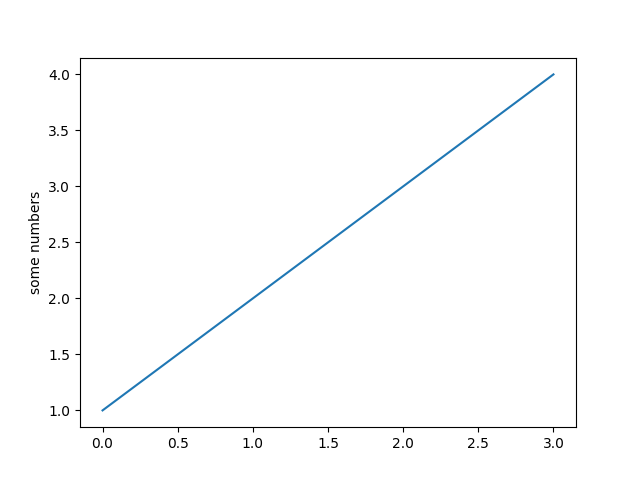
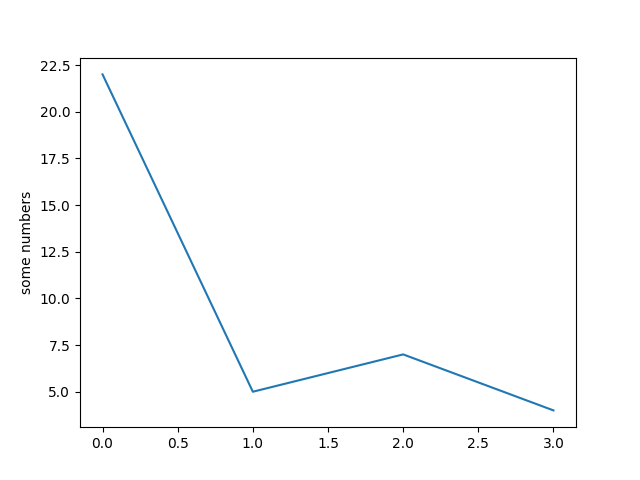
fixed directory structure

diff --git a/views/index.html b/views/index.html
@@ -1,0 +1,18 @@
+<!DOCTYPE html>
+   <head>
+      <title>Raspberry Pi Sensor Data</title>
+      <link rel="stylesheet" href='/style.css'/>
+   </head>
+   <body>
+    <h1>Raspberry Pi Sensor Data</h1>
+   
+    <div>
+        <h3>Temperature</h3>
+        <img src= {{url}}>
+    </div>
+    <div>
+        <h3>Humidity</h3>
+        <img src= {{url}}>
+    </div>
+   </body>
+</html>

diff --git a/partOne/runInterface.py b/partOne/runInterface.py
@@ -7,15 +7,15 @@ matplotlib.use('Agg')
 from matplotlib import pyplot as plt 
 import base64, io
 
-app = Flask(__name__, template_folder='templates')
+app = Flask(__name__, template_folder='../views')
 
 @app.route("/")
 def plotGraph():
 
-    plt.plot([1, 2, 3, 4])
+    plt.plot([22, 5, 7, 4])
     plt.ylabel('some numbers')
-    plt.savefig('static/graph.png')
-    return render_template('index.html', url = 'static/graph.png')
+    plt.savefig('../static/graph.png')
+    return render_template('index.html', url = '../static/graph.png')
 
 host = os.popen('hostname -I').read()
 #port set to a non privileged port above 1024

diff --git a/partOne/partOne.py b/partOne/partOne.py
@@ -17,7 +17,7 @@ def get_cpu_temp():
 
 # Writing to Database
 # Table is datetime , temp , humidity
-dbname='/home/pi/SenseARaspberryPi/database.bieber'
+dbname='/home/pi/SenseARaspberryPi/db/database.bieber'
 sampleFreq = 1 # time in seconds
 
 # get data from SenseHat sensor
@@ -60,7 +60,6 @@ def main():
     sense = SenseHat()
     red = (255, 0, 0)
     sense.clear(red)  # passing in an RGB tuple
-    
 
     for i in range (0,3):
         getSenseHatData()

diff --git a/partOne/create_bieber.py b/partOne/create_bieber.py
@@ -1,7 +1,7 @@
 #!/usr/bin/env python3
 import sqlite3 as lite
 import sys
-con = lite.connect('database.bieber')
+con = lite.connect('/home/pi/SenseARaspberryPi/db/database.bieber')
 with con: 
     cur = con.cursor() 
     cur.execute("DROP TABLE IF EXISTS SENSEHAT_data")
